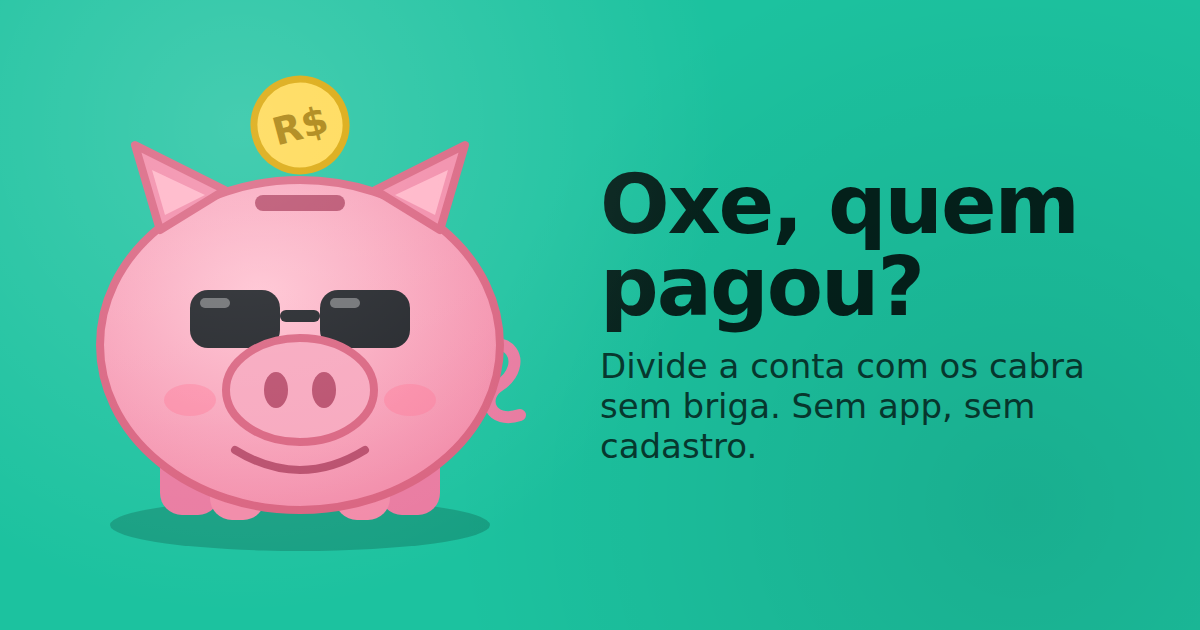
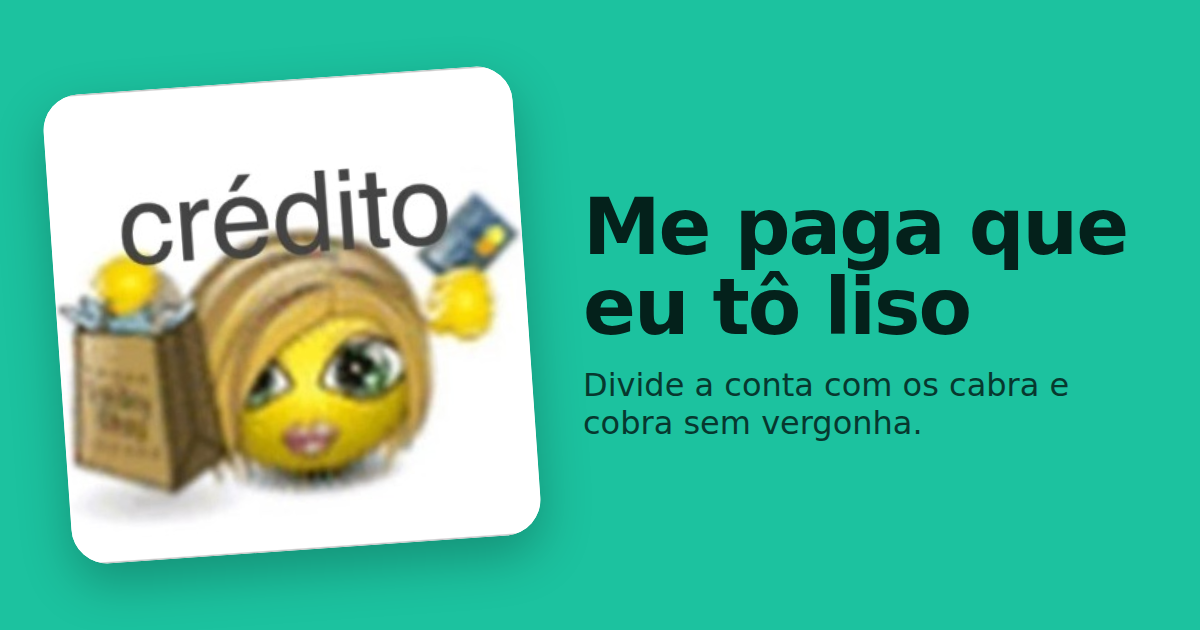
Nome 'Me paga que eu tô liso' e figurinha na prévia do WhatsApp e no ícone
Claude-Session: https://claude.ai/code/session_01H4eTjd99awd9v2hmnSNs4M

diff --git a/index.html b/index.html
@@ -4,20 +4,20 @@
 <meta charset="utf-8">
 <meta name="viewport" content="width=device-width, initial-scale=1">
 <meta name="robots" content="noindex, nofollow">
-<title>Racha</title>
+<title>Me paga que eu tô liso</title>
 <meta name="description" content="Divida gastos com amigos. Um código, um grupo. Sem conta, sem app.">
 <link rel="icon" type="image/png" href="icon.png">
 <link rel="apple-touch-icon" href="icon.png">
 <meta name="theme-color" content="#1cc29f">
 <meta property="og:type" content="website">
-<meta property="og:site_name" content="Racha">
-<meta property="og:title" content="Oxe, quem pagou?">
-<meta property="og:description" content="Divide a conta com os cabra sem briga. Sem app, sem cadastro.">
+<meta property="og:site_name" content="Me paga que eu tô liso">
+<meta property="og:title" content="Me paga que eu tô liso">
+<meta property="og:description" content="Divide a conta com os cabra e cobra sem vergonha. Sem app, sem cadastro.">
 <meta property="og:url" content="https://fernandollisboa.github.io/splitwise-lite/">
 <meta property="og:image" content="https://fernandollisboa.github.io/splitwise-lite/og.png">
 <meta property="og:image:width" content="1200">
 <meta property="og:image:height" content="630">
-<meta property="og:image:alt" content="Porquinho de óculos escuros recebendo uma moeda">
+<meta property="og:image:alt" content="Figurinha da emoji loira com sacola de compras e cartão de crédito">
 <meta name="twitter:card" content="summary_large_image">
 <style>
   :root{
@@ -79,7 +79,7 @@
 <div id="overlay" class="hidden"><div class="box" id="overlayBox"></div></div>
 
 <header>
-  <h1>Racha <small id="roomLabel"></small></h1>
+  <h1>Me paga que eu tô liso <small id="roomLabel"></small></h1>
   <div class="row">
     <span id="status" class="status"></span>
     <button id="whoBtn" class="ghost" title="Trocar quem é você">Eu sou…</button>
@@ -230,7 +230,7 @@
   function render(){
     if (!state) return;
     $('#roomLabel').textContent = roomName ? `· ${roomName}` : '';
-    document.title = roomName ? `${roomName} · Racha` : 'Racha';
+    document.title = roomName ? `${roomName} · Me paga que eu tô liso` : 'Me paga que eu tô liso';
     $('#whoBtn').textContent = me && state.people.some(p => p.id === me) ? `Eu sou ${nameOf(me)}` : 'Eu sou…';
 
     const b = balances();
@@ -271,7 +271,7 @@
   const closeOverlay = () => $('#overlay').classList.add('hidden');
 
   function showGate(msg){
-    overlay(`<h2>Racha</h2><p class="muted" style="margin:0">${msg || 'Digite o código do grupo.'}</p>
+    overlay(`<h2>Me paga que eu tô liso</h2><p class="muted" style="margin:0">${msg || 'Digite o código do grupo.'}</p>
       <form id="gateForm" autocomplete="off"><input id="gateCode" placeholder="Código" required autofocus autocapitalize="none">
       <p id="gateErr" class="status err" style="margin:0"></p><button class="primary">Entrar</button></form>`);
     $('#gateForm').onsubmit = async ev => {
